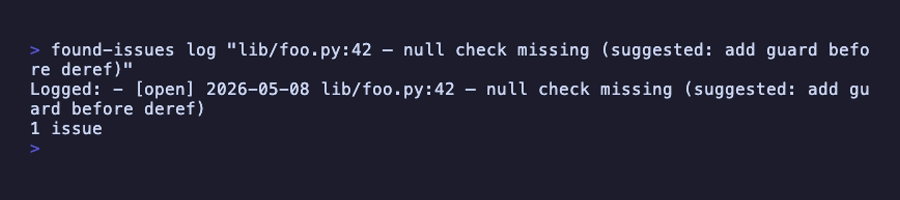
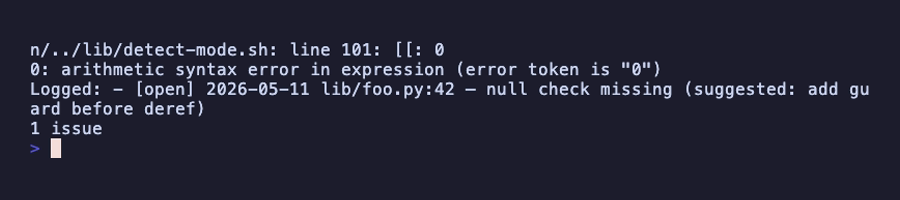
docs(readme): reorder for trending — value before install, animated demo
Reorders top-to-bottom flow to match currently-trending devtool README
patterns (Claude Code, Crush, Gum, Gemini CLI, opencode): hero +
animated demo + value, then install. The install section dropped from
70 lines (25% of the file) to ~48 with updates/uninstall folded into
a `<details>` block.

- Animate the demo: render hero.gif from existing hero.tape via vhs
- Hoist "What it does" and "Why this exists" above install
- Compress install; collapse updates + uninstall into <details>
- Add a Quick start section (3 lines, the missing first-run moment)
- Move defer deep-dive (touch counts, escalation math, critical
  auto-promote) out of README into new docs/deferring.md
- Drop the "How is this different from…?" comparison table (already
  covered in docs/faq.md; linked from Docs section)
- Surface two slash commands missing from README: /found-issues:defer
  and /found-issues:promote-deferred

Net: 279 -> 213 README lines (24% shorter), no info lost.

Changed region(s): [[0.0311, 0.21, 0.9644, 0.48], [0.0311, 0.69, 0.0933, 0.78]]

diff --git a/README.md b/README.md
@@ -6,84 +6,13 @@
 [![license: MIT](https://img.shields.io/badge/license-MIT-blue.svg)](LICENSE)
 [![Claude Code plugin](https://img.shields.io/badge/Claude%20Code-plugin-orange.svg)](https://docs.claude.com/en/docs/claude-code/plugins)
 
-![demo](hero.png)
+![demo](hero.gif)
 
 When Claude notices a bug, error, or warning while working on something
 else, it usually shrugs and moves on — *"pre-existing, not the code we
 touched, let's continue."* found-issues makes it stop, log the
 observation, and surface it later. Automatically. Across sessions.
 **Without the user lifting a finger.**
-
-## Installation
-
-Run these in Claude Code, in order:
-
-```
-/plugin marketplace add AltDoug/claude-plugins
-/plugin install found-issues
-```
-
-Then **start a new Claude Code session** so the plugin loads (existing
-sessions only pick it up after a fresh start; `/reload-plugins` works
-in the *current* session if you'd rather not restart).
-
-In the new session, run:
-
-```
-/found-issues:setup
-```
-
-This walks you through orientation in ~30 seconds and offers optional
-polish (statusline integration, shorter `/fi` alias, per-repo git
-pre-commit hook). Setup is **optional** — the plugin is fully active
-without it — but running it once gets the polish wired up and removes
-the guesswork. You can always re-run it later.
-
-![setup picker showing optional integrations](setup.png)
-
-The plugin handles automatically:
-
-- Auto-loading the agent rules into context every session
-- Registering all 7 lifecycle hooks
-- Adding the `found-issues` CLI to your PATH
-- Working in any repo (auto-detects mode: local / git / github-direct / github-pr)
-
-### Staying up to date
-
-Claude Code keeps third-party marketplaces (this one included) on **manual
-update** by default. **Recommended:** flip auto-update on once, then future
-versions land silently at session start. Run `/plugin`, open the
-**Marketplaces** tab, pick `altdoug-plugins`, and choose **Enable
-auto-update**. After an update lands, Claude Code prompts you to run
-`/reload-plugins` (or restart the session) to pick up the new code.
-
-Prefer to update on your own schedule? Skip the toggle and pull manually
-whenever you want:
-
-```
-/plugin marketplace update altdoug-plugins
-/plugin update found-issues
-```
-
-### Uninstalling
-
-> **Order matters.** Run our cleanup *before* the platform uninstall, or
-> plugin-private state will be orphaned in `~/.claude/`.
-
-```
-/found-issues:uninstall                            # 1. plugin's own cleanup
-/plugin uninstall found-issues                     # 2. platform uninstall
-/plugin marketplace remove altdoug-plugins         # 3. (only if you also want to remove the marketplace)
-```
-
-<details>
-<summary>Why the order matters</summary>
-
-`/plugin uninstall` (Claude Code's built-in command) only removes the plugin code itself — it does **not** invoke our `uninstall` skill. If you run it first, the statusline segment, onboarding marker, mode cache, and `/fi` alias all stay behind in `~/.claude/`. They're invisible until you reinstall later, at which point they cause confusing state mismatches (silent broken statusline counter, orphaned alias, etc.).
-
-`/found-issues:uninstall` runs `found-issues uninstall` which removes only files our installer ever touched (manifest-tracked, conservative). Per-repo `docs/found-issues.md` files are intentionally preserved — they're your project data.
-
-</details>
 
 ## What it does
 
@@ -115,85 +44,75 @@ one wired up:
 The file stays accurate. `[fixed]` history accumulates as a record.
 Nothing requires manual bookkeeping.
 
-### Deferring recurring issues
-
-Sometimes a logged issue is real but not addressable now (out-of-scope, blocked, low priority). The plugin treats `[deferred]` as a first-class lifecycle state: tracked in the file, suppressed from the statusline counter, and flagged when it recurs.
-
-```bash
-# Defer with optional reason
-/found-issues:defer src/auth.py:88 --reason "tracked in JIRA-1234"
-
-# Promote back to [open] when ready to address
-/found-issues:promote-deferred src/auth.py:88
-```
-
-**Recurrence detection.** When you `log` an issue that matches an existing `[deferred]` entry's dedup key, the plugin appends today's date to a `(touched: ...)` annotation on the deferred entry — no new `[open]` entry is created. After 3 touches (cycle 1 default), it nudges:
-
-```
-Touched deferred entry (now 3x, threshold 3): src/auth.py:88
-Consider: found-issues promote-deferred --match auth.py
-```
-
-**Critical entries auto-promote.** Entries logged with `--critical` (the `[!]` flag) flip back to `[open]` automatically on the Nth touch — no manual step.
-
-**Loop prevention.** If you promote and re-defer the same entry, the threshold for the next nudge doubles (cycle 1: 3 touches → cycle 2: 6 → cycle 3: 12 → ...). The history is preserved as evidence, but the bar to bug you about it again rises geometrically. Configurable via `FOUND_ISSUES_DEFER_TOUCH_THRESHOLD` (base, default 3) and `FOUND_ISSUES_DEFER_ESCALATION_FACTOR` (factor, default 2).
-
-## How to use it day-to-day
-
-Once installed, the plugin runs on its own — Claude logs as it works,
-the statusline shows the count, entries auto-flip on PR/commit. But
-the value compounds when you treat the log as a queue:
-
-**Ask Claude what's open.** The file is auto-loaded into context every
-session, so plain-English queries work:
-
-> *"What's open in found-issues?"*
-> *"Show me the critical ones."*
-> *"What's the oldest unfixed entry?"*
-
-No special command needed — Claude already has `docs/found-issues.md`
-in context.
-
-**Have an agent triage the easy ones.** When the queue gets long:
-
-> *"Read docs/found-issues.md, pick three entries you can fix in under
-> 10 minutes, and do them. Open a PR for each."*
-
-The auto-loaded rules teach Claude to annotate entries it fixes (via
-`/found-issues:annotate-pr` and the post-pr-create hook). When the PRs
-merge, the entries flip to `[fixed]` automatically.
-
-**Use the count as soft pressure.** When the statusline reads
-`3 critical · 12 other`, it's a constant reminder that there's known
-work waiting. The critical flag (`[!]`) bubbles drop-everything items
-to the top. (The residual bucket labels as "issue/issues" when it's the
-only counter on display and "other" when alongside critical / in PR /
-stale, so the segment counts always add up cleanly.)
-
 ## Why this exists
 
 Most AI coding agents have a **proactive blindspot**: they notice
 defects in code they're reading, judge those defects as out-of-scope,
-and silently move on. Sometimes they say "I noticed X but it's
-pre-existing, not the code we touched, let's move on." Then the bug
-stays in the codebase forever — invisible to the user who'd never have
-spotted it themselves.
+and silently move on. Then the bug stays in the codebase forever —
+invisible to the user who'd never have spotted it themselves.
 
 found-issues changes the contract. The agent maintains a tiny markdown
 file as it works. Issues never disappear into the void. Eventually they
 either get fixed (and auto-closed) or stay visible until they do.
 
-## How is this different from…?
+## Install
 
-| | found-issues | GitHub Issues / Linear / Jira | Backlog.md / claude-mem |
-|---|---|---|---|
-| Tracks | Defects the AI noticed but didn't fix | Anything (features, bugs, tasks) | Generic markdown tasks / session memory |
-| Created by | The AI agent (proactively) | Humans | Either |
-| Storage | Plain markdown in your repo | Cloud DB | Markdown |
-| Closure | Auto via PR/commit/tombstone | Manual | Manual |
-| AI verification of unannotated entries | Yes | No | No |
+Run these in Claude Code:
 
-You can run all of these together — they don't overlap functionally.
+```
+/plugin marketplace add AltDoug/claude-plugins
+/plugin install found-issues
+```
+
+Then **start a new Claude Code session** so the plugin loads. That's it
+— the plugin is fully active.
+
+Optional one-time polish (statusline counter, `/fi` shortcut, per-repo
+git pre-commit hook):
+
+```
+/found-issues:setup
+```
+
+<details>
+<summary>Updates and uninstall</summary>
+
+**Auto-update (recommended).** Run `/plugin`, open the **Marketplaces**
+tab, pick `altdoug-plugins`, choose **Enable auto-update**. New versions
+land silently at session start.
+
+**Manual update:**
+
+```
+/plugin marketplace update altdoug-plugins
+/plugin update found-issues
+```
+
+**Uninstall — order matters.** Run our cleanup *before* the platform
+uninstall, or plugin-private state (statusline segment, `/fi` alias,
+mode cache) will be orphaned in `~/.claude/`:
+
+```
+/found-issues:uninstall                            # 1. plugin's own cleanup
+/plugin uninstall found-issues                     # 2. platform uninstall
+/plugin marketplace remove altdoug-plugins         # 3. (only to remove the marketplace too)
+```
+
+Per-repo `docs/found-issues.md` files are intentionally preserved —
+they're your project data.
+
+</details>
+
+## Quick start
+
+After install, just work normally. To see the system in action:
+
+> *"What's open in found-issues?"*
+
+The file is auto-loaded into context every session, so plain-English
+queries work — no special command needed. Try also: *"Show me the
+critical ones"* or *"Read docs/found-issues.md, pick three entries you
+can fix in under 10 minutes, and do them."*
 
 ## Slash commands
 
@@ -205,18 +124,33 @@ All namespaced under `/found-issues:` (Claude Code plugin convention):
 | `/found-issues:sync` | Reconcile with PR/commit history + AI-verify unannotated entries |
 | `/found-issues:annotate-pr <N>` | Link an entry to a PR (auto-prompted by hooks) |
 | `/found-issues:annotate-commit [<sha>]` | Link an entry to a commit (defaults to HEAD) |
+| `/found-issues:defer <path:line> [--reason <text>]` | Mark an entry as deferred (suppress from counter) |
+| `/found-issues:promote-deferred <path:line>` | Promote a `[deferred]` entry back to `[open]` |
 | `/found-issues:promote` | Carry branch-only entries into main before branch deletion |
 | `/found-issues:status` | Print current counts |
-| `/found-issues:archive` | Move old `[fixed]` entries to `docs/found-issues-archive.md` (count threshold 50 OR days threshold 30, whichever first) |
+| `/found-issues:archive` | Move old `[fixed]` entries to `docs/found-issues-archive.md` (50-entry / 30-day thresholds) |
 | `/found-issues:setup` | Optional first-run orientation |
 | `/found-issues:doctor` | General health check — CLI, statusline, gh, mode, hook opt-outs, issues file |
 | `/found-issues:uninstall` | Clean up plugin-private state before `/plugin uninstall` |
 
-**Want shorter typing?** `/found-issues:setup` offers an optional `/fi`
-shortcut — pick it during setup and `/fi log src/foo.py:42 — bug` works
-as a shortcut for `/found-issues:log src/foo.py:42 — bug`. Installed via
-the deterministic `found-issues install-fi-alias` CLI subcommand;
-removable via `found-issues uninstall-fi-alias`.
+`/found-issues:setup` offers an optional `/fi` shortcut so `/fi log
+src/foo.py:42 — bug` works as a shortcut for the full namespaced form.
+
+## Use the count as soft pressure
+
+When the statusline reads `3 critical · 12 other`, it's a constant
+reminder there's known work waiting. The critical flag (`[!]`) bubbles
+drop-everything items to the top.
+
+## Deferring recurring issues
+
+`[deferred]` is a first-class state — tracked in the file, suppressed
+from the statusline counter, and flagged when it recurs. Touch a
+deferred entry enough times and the plugin nudges you to promote it
+back to `[open]`. Critical entries auto-promote. Re-defer escalates the
+nudge threshold geometrically (loop prevention).
+
+Full lifecycle, formulas, and tunables: [`docs/deferring.md`](docs/deferring.md).
 
 ## Format
 
@@ -234,17 +168,16 @@ Auto-detects 4 modes per repo: `local`, `git`, `github-direct`, `github-pr`. Mix
 
 ## Platform support
 
-Tested in CI on:
-
 | OS | Shell | Status |
 |---|---|---|
 | Linux (Ubuntu) | bash | ✅ Supported |
 | macOS | bash | ✅ Supported |
 | Windows | Git Bash | ✅ Supported |
 
-**Windows note**: the plugin's CLI and hooks are bash-based (`#!/usr/bin/env bash`), so they need a bash interpreter to run. On Windows, that's provided by [Git for Windows](https://gitforwindows.org/) (Git Bash) — a near-universal install for any Windows dev box. CI runs the full test suite on `windows-latest` under Git Bash and passes. WSL works too.
-
-If you're on a Windows install without Git Bash or WSL, install Git for Windows first.
+The CLI and hooks are bash-based, so on Windows you need a bash
+interpreter — that's what [Git for Windows](https://gitforwindows.org/)
+(Git Bash) provides. WSL works too. CI runs the full test suite on all
+three platforms.
 
 ## Status
 
@@ -257,9 +190,10 @@ Have a use case the plugin doesn't cover? [Open an issue](https://github.com/Alt
 - [`docs/architecture.md`](docs/architecture.md) — how the pieces fit together
 - [`docs/format-spec.md`](docs/format-spec.md) — canonical entry format
 - [`docs/modes.md`](docs/modes.md) — workflow modes and detection
+- [`docs/deferring.md`](docs/deferring.md) — defer lifecycle, recurrence detection, loop prevention
 - [`docs/configuration.md`](docs/configuration.md) — every env-var opt-out and tunable
 - [`docs/versioning.md`](docs/versioning.md) — SemVer rules + when to bump which segment
-- [`docs/faq.md`](docs/faq.md) — common questions
+- [`docs/faq.md`](docs/faq.md) — common questions, including "how is this different from Linear / Jira / Backlog.md / claude-mem?"
 - [`AGENTS.md`](AGENTS.md) — instructions for AI agents installing this
 - [`CONTRIBUTING.md`](CONTRIBUTING.md) — how to propose changes
 - [`CHANGELOG.md`](CHANGELOG.md) — version history

diff --git a/docs/deferring.md b/docs/deferring.md
@@ -1,0 +1,50 @@
+# Deferring recurring issues
+
+Sometimes a logged issue is real but not addressable now (out-of-scope,
+blocked, low priority). The plugin treats `[deferred]` as a first-class
+lifecycle state: tracked in the file, suppressed from the statusline
+counter, and flagged when it recurs.
+
+```bash
+# Defer with optional reason
+/found-issues:defer src/auth.py:88 --reason "tracked in JIRA-1234"
+
+# Promote back to [open] when ready to address
+/found-issues:promote-deferred src/auth.py:88
+```
+
+## Recurrence detection
+
+When you `log` an issue that matches an existing `[deferred]` entry's
+dedup key, the plugin appends today's date to a `(touched: ...)`
+annotation on the deferred entry — no new `[open]` entry is created.
+
+After 3 touches (cycle 1 default), it nudges:
+
+```
+Touched deferred entry (now 3x, threshold 3): src/auth.py:88
+Consider: found-issues promote-deferred --match auth.py
+```
+
+## Critical entries auto-promote
+
+Entries logged with `--critical` (the `[!]` flag) flip back to `[open]`
+automatically on the Nth touch — no manual step.
+
+## Loop prevention
+
+If you promote and re-defer the same entry, the threshold for the next
+nudge doubles:
+
+| Cycle | Touches before nudge |
+|---|---|
+| 1 | 3 |
+| 2 | 6 |
+| 3 | 12 |
+| 4 | 24 |
+
+The history is preserved as evidence, but the bar to bug you about it
+again rises geometrically. Both knobs are tunable — see
+[`docs/configuration.md`](configuration.md) for
+`FOUND_ISSUES_DEFER_TOUCH_THRESHOLD` (base, default 3) and
+`FOUND_ISSUES_DEFER_ESCALATION_FACTOR` (factor, default 2).
